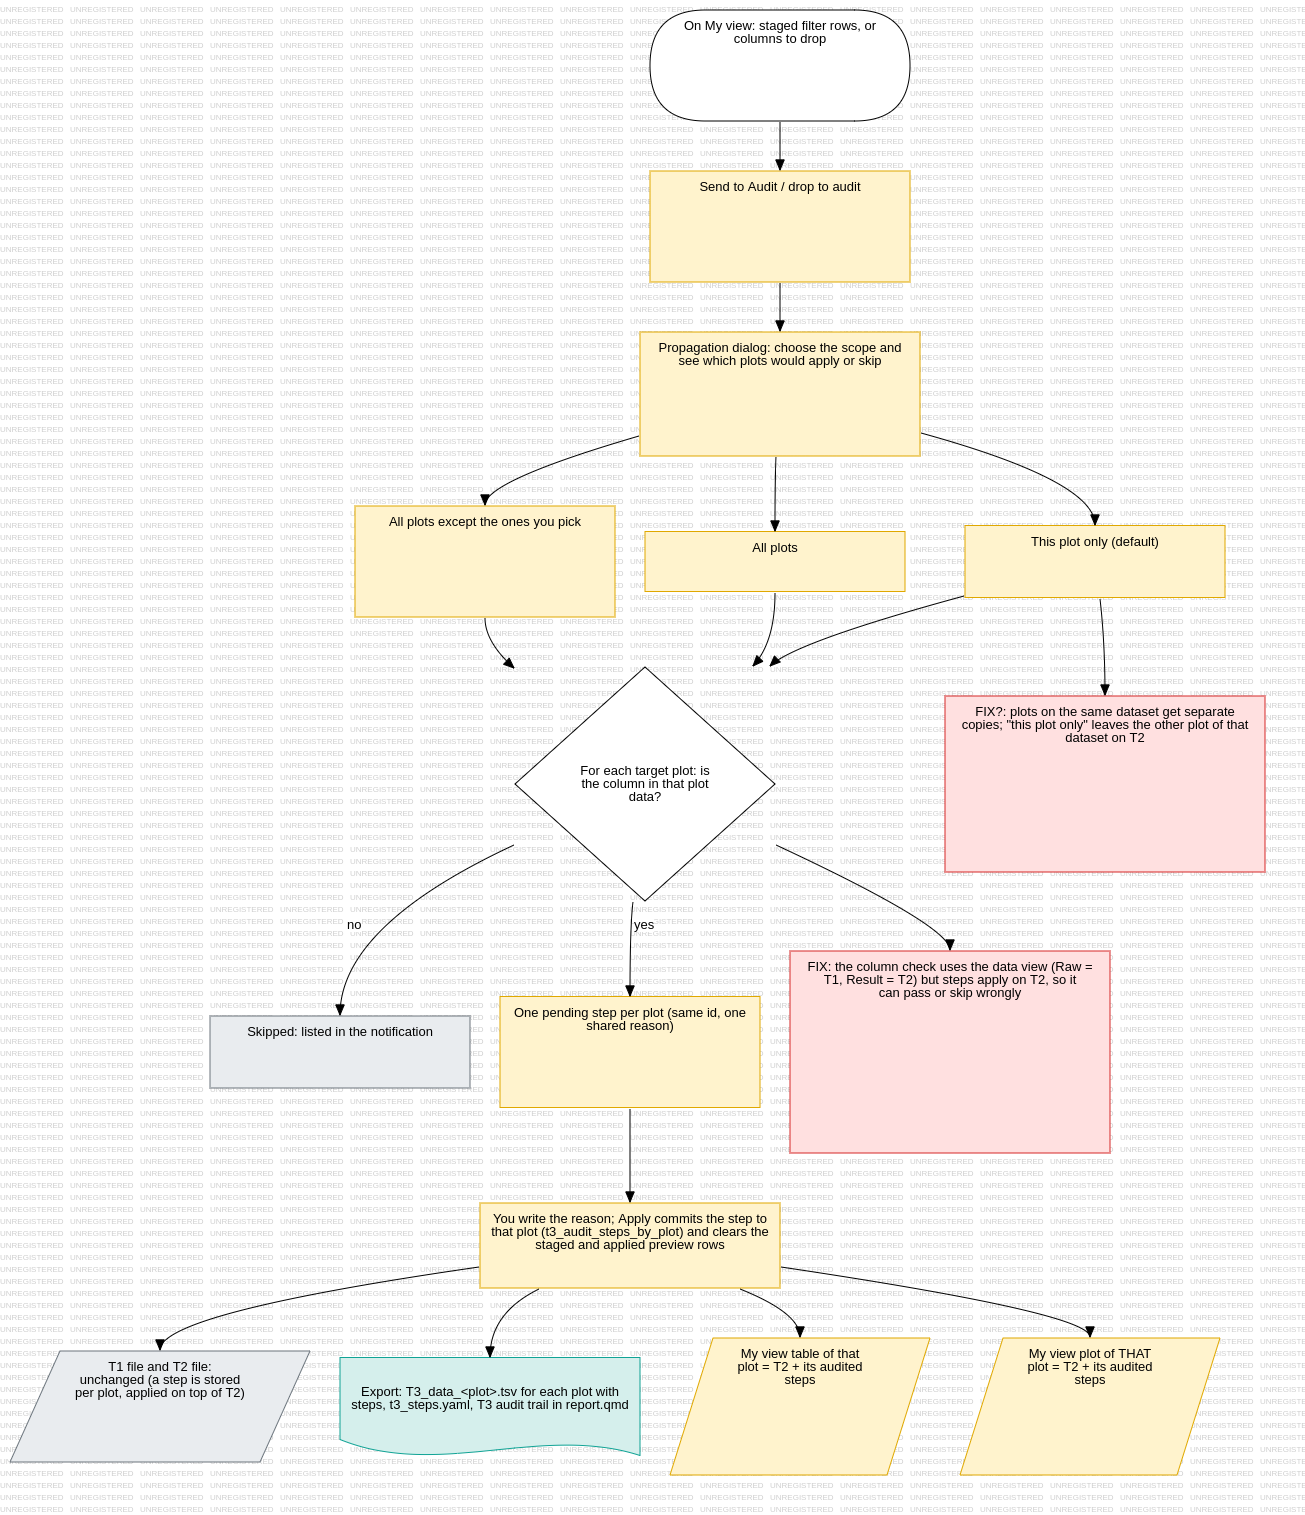
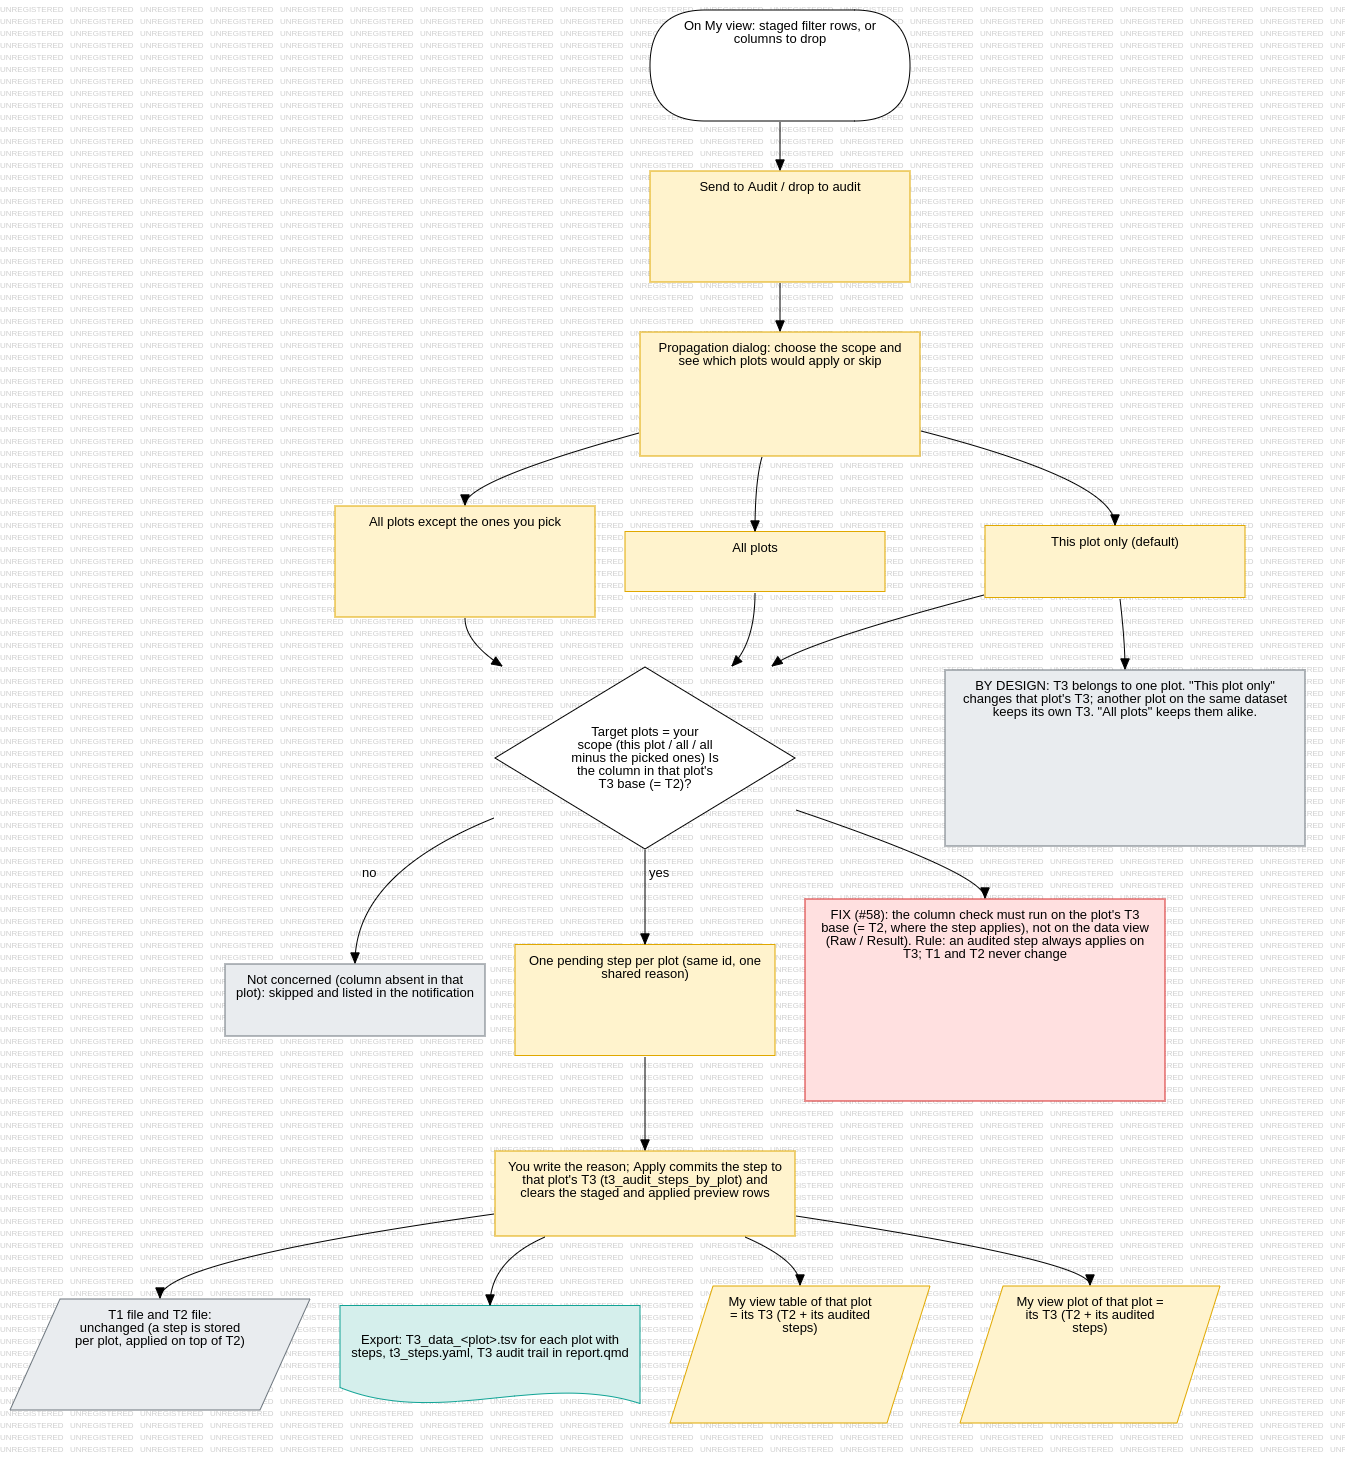
docs(uml): audited steps always apply on T3; plot-owned T3 is by design
Update HOME-AUDIT-SCOPE and HOME-AUDIT-EFFECT after Eve's comments: the
scope option picks target plots, plots without the column are skipped,
and the column check belongs on the plot's T3 base. Two plots on one
dataset keeping separate T3 is marked by design, not a fix.

Refs: evezeyl/SPARMVET_VIZ#56
Refs: evezeyl/SPARMVET_VIZ#58

Changed region(s): [[0.0, 0.0, 1.0, 1.0]]

diff --git a/.claude/design/home_filter_scoping_concept.md b/.claude/design/home_filter_scoping_concept.md
@@ -43,6 +43,12 @@ To test (Eve): trash icon with several applied filters, removing only one; the d
 To detail later: audited steps per plot (this plot / all / all except); a separate UML (HOME-AUDIT-SCOPE) can be
 linked from the "Audited steps" boxes once the exact behaviour is known (tag `detail` = diagram name).
 
+Rule proposed by Eve, 2026-11-11 (matches the code, to be confirmed): **an audited step always applies on T3.**
+T3 = the derived frame of ONE plot: its dataset's T2 plus that plot's audited steps. T1 and T2 never change.
+Consequences: the column check at promotion must run on the T3 base (T2), not on the data view (issue #58);
+"this plot only" changes only that plot's T3, so another plot on the same dataset keeps its own T3 by design
+(use "all plots" to keep them alike); the same T3 function should serve the table, the plot and the export.
+
 ## 3. Data lineage cases (what can differ between stages)
 
 A plot reads ONE dataset (`target_dataset`, a join id or a data schema). Several plots can share it.
